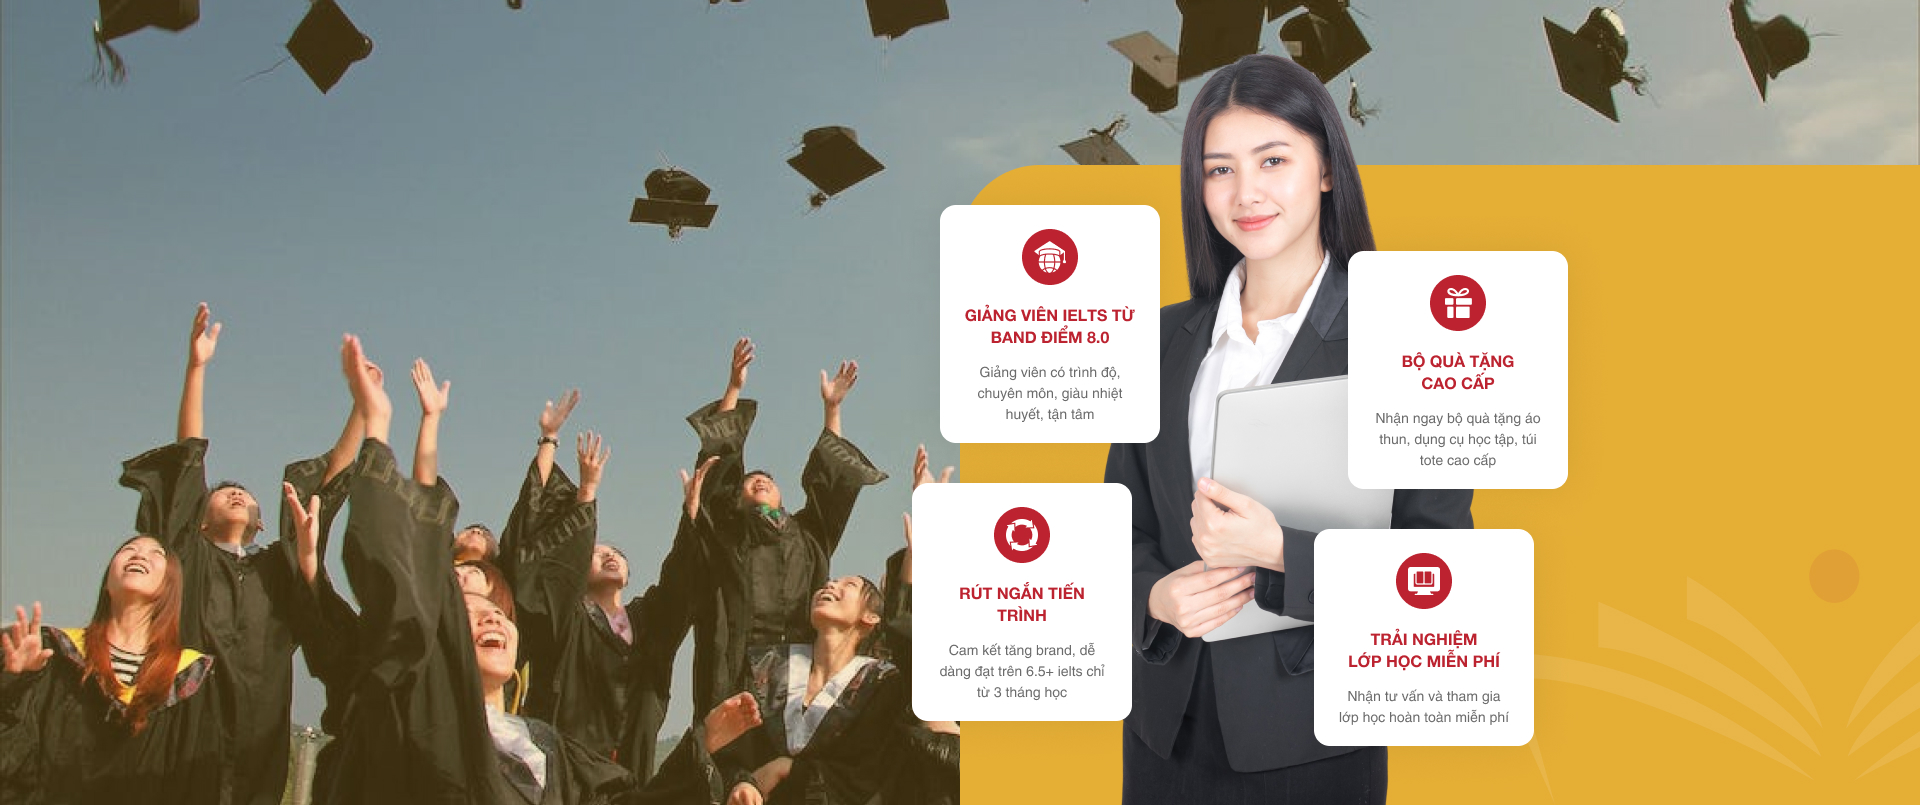
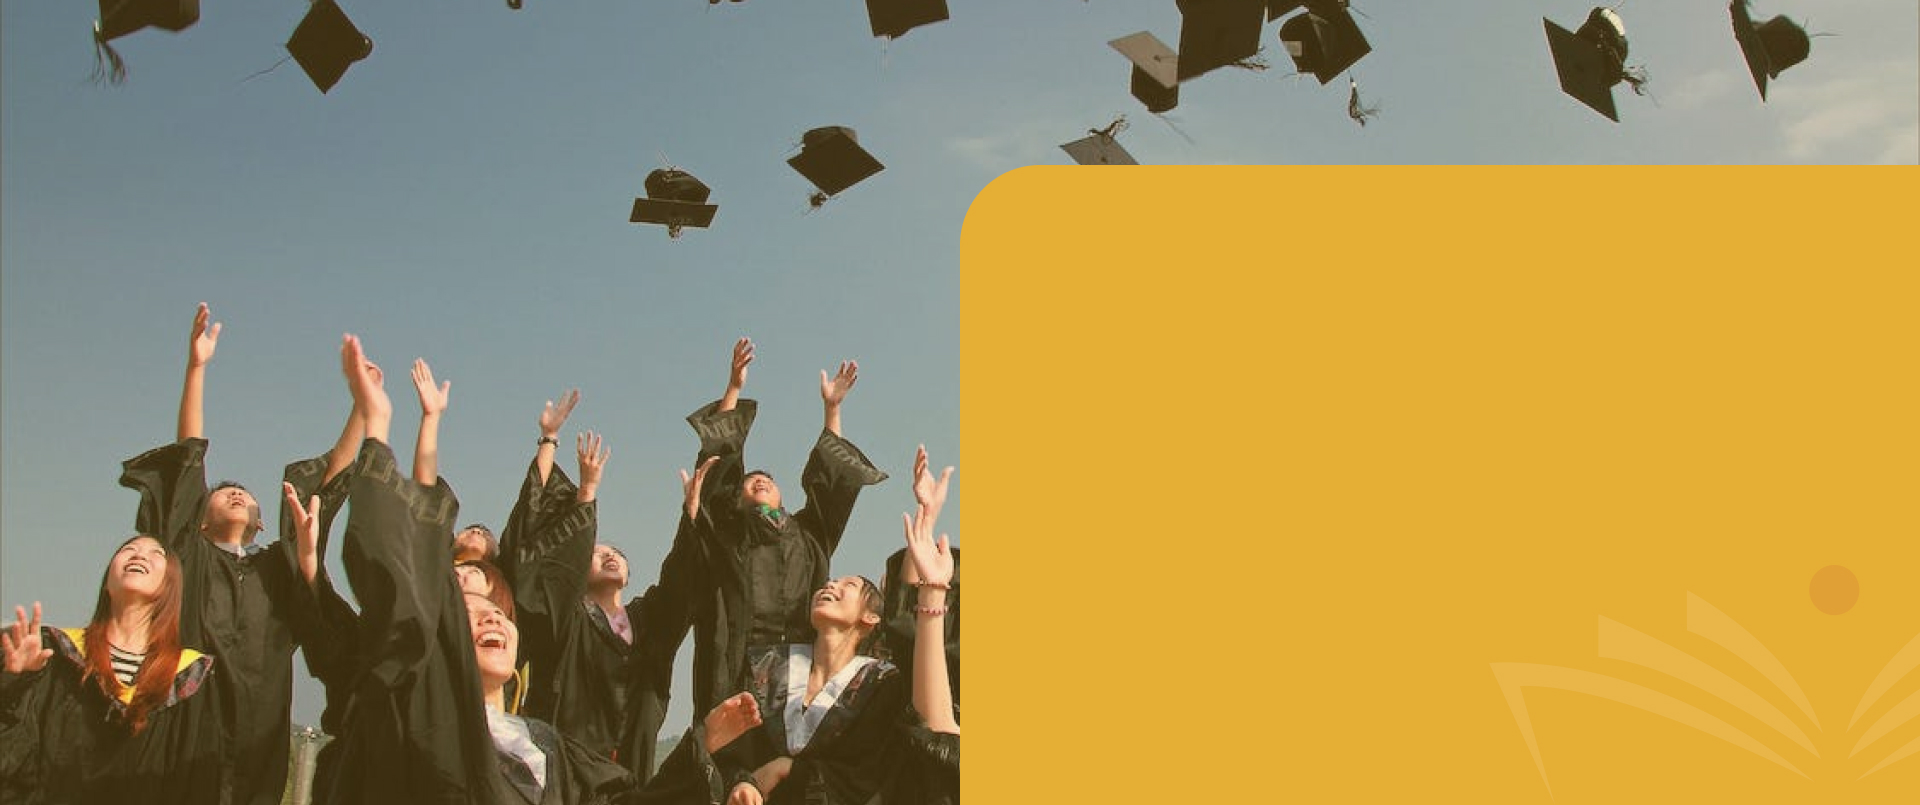
fix form and fix bg

Changed region(s): [[0.4688, 0.0621, 0.8438, 1.0]]

diff --git a/resources/sass/home.scss b/resources/sass/home.scss
@@ -340,10 +340,8 @@
     75%  {transform: scale(0.9)}
 }
 .form-advisory{
-    background: url("../images/bg-form.jpg") center no-repeat;
-    @media (max-width: 768px) {
-        background: url("../images/bg-form.jpg") left no-repeat;
-    }
+    background: url("../images/bg-form.jpg") left no-repeat;
+    background-size: cover;
     .register-learn{
         padding: 100px 0;
         @media (max-width: 768px) {
@@ -406,6 +404,12 @@
                 appearance: none;
                 margin: 0;
             }
+            input[type="datetime-local"]{
+                &:focus{
+                    background: #fff;
+                    color: #000;
+                }
+            }
             #calendarIcon{
                 right: 0;
                 top: 0;
@@ -429,6 +433,11 @@
                 i{
                     margin-left: 10px;
                 }
+            }
+        }
+        .bg-for-form-advisory{
+            img{
+                bottom: -100px;
             }
         }
     }

diff --git a/public/css/web/home.css b/public/css/web/home.css
@@ -305,12 +305,8 @@
   }
 }
 .form-advisory {
-  background: url(/images/bg-form.jpg?26304f2314935dbb8ac3560d096b025b) center no-repeat;
-}
-@media (max-width: 768px) {
-  .form-advisory {
-    background: url(/images/bg-form.jpg?26304f2314935dbb8ac3560d096b025b) left no-repeat;
-  }
+  background: url(/images/bg-form.jpg?068adc0932cc84f4d0bf3b660db8e7e9) left no-repeat;
+  background-size: cover;
 }
 .form-advisory .register-learn {
   padding: 100px 0;
@@ -372,6 +368,10 @@
   appearance: none;
   margin: 0;
 }
+.form-advisory .register-learn .form-home-add input[type=datetime-local]:focus {
+  background: #fff;
+  color: #000;
+}
 .form-advisory .register-learn .form-home-add #calendarIcon {
   right: 0;
   top: 0;
@@ -395,6 +395,9 @@
 }
 .form-advisory .register-learn .form-home-add .submit-form-home i {
   margin-left: 10px;
+}
+.form-advisory .register-learn .bg-for-form-advisory img {
+  bottom: -100px;
 }
 
 .content-student {

diff --git a/resources/sass/advisory.scss b/resources/sass/advisory.scss
@@ -5,6 +5,7 @@
 .form-advisory{
     background: url("../images/bg-form.jpg") left center no-repeat;
     padding: 52px 0;
+    background-size: cover;
     .register-learn{
         .title-form-add{
             color: #fff;
@@ -60,6 +61,12 @@
                 appearance: none;
                 margin: 0;
             }
+            input[type="datetime-local"]{
+                &:focus{
+                    background: #fff;
+                    color: #000;
+                }
+            }
             .submit-form-home{
                 border-radius: 100px;
                 border: none;
@@ -77,6 +84,11 @@
                 i{
                     margin-left: 10px;
                 }
+            }
+        }
+        .bg-for-form-advisory{
+            img{
+                bottom: -52px;
             }
         }
     }

diff --git a/public/css/web/advisory.css b/public/css/web/advisory.css
@@ -7,8 +7,9 @@
   }
 }
 .form-advisory {
-  background: url(/images/bg-form.jpg?26304f2314935dbb8ac3560d096b025b) left center no-repeat;
+  background: url(/images/bg-form.jpg?068adc0932cc84f4d0bf3b660db8e7e9) left center no-repeat;
   padding: 52px 0;
+  background-size: cover;
 }
 .form-advisory .register-learn .title-form-add {
   color: #fff;
@@ -59,6 +60,10 @@
   appearance: none;
   margin: 0;
 }
+.form-advisory .register-learn .form-home-add input[type=datetime-local]:focus {
+  background: #fff;
+  color: #000;
+}
 .form-advisory .register-learn .form-home-add .submit-form-home {
   border-radius: 100px;
   border: none;
@@ -76,4 +81,7 @@
 }
 .form-advisory .register-learn .form-home-add .submit-form-home i {
   margin-left: 10px;
+}
+.form-advisory .register-learn .bg-for-form-advisory img {
+  bottom: -52px;
 }

diff --git a/resources/views/web/home.blade.php b/resources/views/web/home.blade.php
@@ -99,7 +99,7 @@
                                 <option value="Get Ielts 7.5+" {{ old('why_learn_ielts') == 'Get Ielts 7.5+' ? 'selected' : '' }} >Get Ielts 7.5+</option>
                             </select>
                             <div class="position-relative">
-                                <input type="text" class="form-control" placeholder="Bạn muốn IELTS TRAINER tư vấn lúc nào?" value="{{ old('time_ielts_support') }}" name="time_ielts_support" id="time_ielts_support" required>
+                                <input type="text" class="form-control" placeholder="Bạn muốn IELTS TRAINER tư vấn lúc nào?" onchange="checkDateTime()" value="{{ old('time_ielts_support') }}" name="time_ielts_support" id="time_ielts_support" required>
 {{--                                <span class="position-absolute" id="calendarIcon"><i class="fas fa-calendar-alt"></i></span>--}}
                             </div>
 
@@ -115,6 +115,11 @@
                             </select>
                             <button class="form-control submit-form-home">đăng ký học thử miển phí <i class="fas fa-paper-plane"></i></button>
                         </form>
+                    </div>
+                    <div class="col-md-7 d-none d-md-block">
+                        <div class="position-relative w-100 h-100 bg-for-form-advisory">
+                            <img src="{{ asset('images/bg-advisory.png') }}" alt="" class="img-fluid position-absolute end-0">
+                        </div>
                     </div>
                 </div>
             </div>
@@ -230,11 +235,31 @@
 
 @section('script')
     @parent
-    <script src="{{ asset('/js/jquery-ui.min.js') }}"></script>
+{{--    <script src="{{ asset('/js/jquery-ui.min.js') }}"></script>--}}
     <script>
-        $( function() {
-            $( "#time_ielts_support" ).datepicker({ dateFormat: 'dd-mm-yy' });
-        } );
+        // Lấy tham chiếu đến phần tử input datetime-local
+        var datetimeInput = $("#time_ielts_support");
+        // Khi phần tử input datetime-local được tập trung vào (focus)
+        datetimeInput.on("focus", function() {
+            // Thay đổi loại của phần tử input sang "datetime-local"
+            $(this).prop("type", "datetime-local");
+        });
+
+        // $( function() {
+        //     $( "#time_ielts_support" ).datepicker({ dateFormat: 'dd-mm-yy' });
+        // } );
+
+        function checkDateTime() {
+            const inputDate = new Date(document.getElementById("time_ielts_support").value);
+            const currentDate = new Date();
+            inputDate.setHours(0, 0, 0, 0);
+            currentDate.setHours(0, 0, 0, 0);
+
+            if (inputDate.getTime() < currentDate.getTime()) {
+                alert('Bạn không thể chọn thời gian quá khứ.')
+                document.getElementById("time_ielts_support").value = ""; // Xoá giá trị nếu người dùng đã chọn thời gian quá khứ
+            }
+        }
 
         $('.list-teacher-show').slick({
             infinite: true,

diff --git a/resources/views/web/advisory/home.blade.php b/resources/views/web/advisory/home.blade.php
@@ -27,7 +27,7 @@
                                 <option value="Get Ielts 6.5+" {{ old('why_learn_ielts') == 'Get Ielts 6.5+' ? 'selected' : '' }} >Get Ielts 6.5+</option>
                                 <option value="Get Ielts 7.5+" {{ old('why_learn_ielts') == 'Get Ielts 7.5+' ? 'selected' : '' }} >Get Ielts 7.5+</option>
                             </select>
-                            <input type="text" class="form-control" placeholder="Bạn muốn IELTS TRAINER tư vấn lúc nào?" value="{{ old('time_ielts_support') }}" id="time_ielts_support" name="time_ielts_support" required>
+                            <input type="text" class="form-control" placeholder="Bạn muốn IELTS TRAINER tư vấn lúc nào?" onchange="checkDateTime()" value="{{ old('time_ielts_support') }}" id="time_ielts_support" name="time_ielts_support" required>
                             <select name="test_ielts_address" id="test_ielts_address" class="form-select" required>
                                 <option value="" disabled selected>Bạn muốn kiểm tra ở trung tâm nào?</option>
                                 @if(!empty($stores))
@@ -40,6 +40,11 @@
                             </select>
                             <button class="form-control submit-form-home">đăng ký học thử miển phí <i class="fas fa-paper-plane"></i></button>
                         </form>
+                    </div>
+                    <div class="col-md-7 d-none d-md-block">
+                        <div class="position-relative w-100 h-100 bg-for-form-advisory">
+                            <img src="{{ asset('images/bg-advisory.png') }}" alt="" class="img-fluid position-absolute end-0">
+                        </div>
                     </div>
                 </div>
             </div>
@@ -63,5 +68,17 @@
             // Thay đổi loại của phần tử input sang "datetime-local"
             $(this).prop("type", "datetime-local");
         });
+
+        function checkDateTime() {
+            const inputDate = new Date(document.getElementById("time_ielts_support").value);
+            const currentDate = new Date();
+            inputDate.setHours(0, 0, 0, 0);
+            currentDate.setHours(0, 0, 0, 0);
+
+            if (inputDate.getTime() < currentDate.getTime()) {
+                alert('Bạn không thể chọn thời gian quá khứ.')
+                document.getElementById("time_ielts_support").value = ""; // Xoá giá trị nếu người dùng đã chọn thời gian quá khứ
+            }
+        }
     </script>
 @endsection

diff --git a/resources/views/web/course/home.blade.php b/resources/views/web/course/home.blade.php
@@ -146,7 +146,7 @@
                                 <option value="Get Ielts 6.5+" {{ old('why_learn_ielts') == 'Get Ielts 6.5+' ? 'selected' : '' }} >Get Ielts 6.5+</option>
                                 <option value="Get Ielts 7.5+" {{ old('why_learn_ielts') == 'Get Ielts 7.5+' ? 'selected' : '' }} >Get Ielts 7.5+</option>
                             </select>
-                            <input type="text" class="form-control" placeholder="Bạn muốn IELTS TRAINER tư vấn lúc nào?" value="{{ old('time_ielts_support') }}" id="time_ielts_support" name="time_ielts_support" required>
+                            <input type="text" class="form-control" placeholder="Bạn muốn IELTS TRAINER tư vấn lúc nào?" onchange="checkDateTime()" value="{{ old('time_ielts_support') }}" id="time_ielts_support" name="time_ielts_support" required>
                             <select name="test_ielts_address" id="test_ielts_address" class="form-select" required>
                                 <option value="" disabled selected>Bạn muốn kiểm tra ở trung tâm nào?</option>
                                 @if(!empty($stores))
@@ -186,6 +186,18 @@
             // Thay đổi loại của phần tử input sang "datetime-local"
             $(this).prop("type", "datetime-local");
         });
+
+        function checkDateTime() {
+            const inputDate = new Date(document.getElementById("time_ielts_support").value);
+            const currentDate = new Date();
+            inputDate.setHours(0, 0, 0, 0);
+            currentDate.setHours(0, 0, 0, 0);
+
+            if (inputDate.getTime() < currentDate.getTime()) {
+                alert('Bạn không thể chọn thời gian quá khứ.')
+                document.getElementById("time_ielts_support").value = ""; // Xoá giá trị nếu người dùng đã chọn thời gian quá khứ
+            }
+        }
 
         $(document).ready(function () {
             $(".course-select").change(function () {
